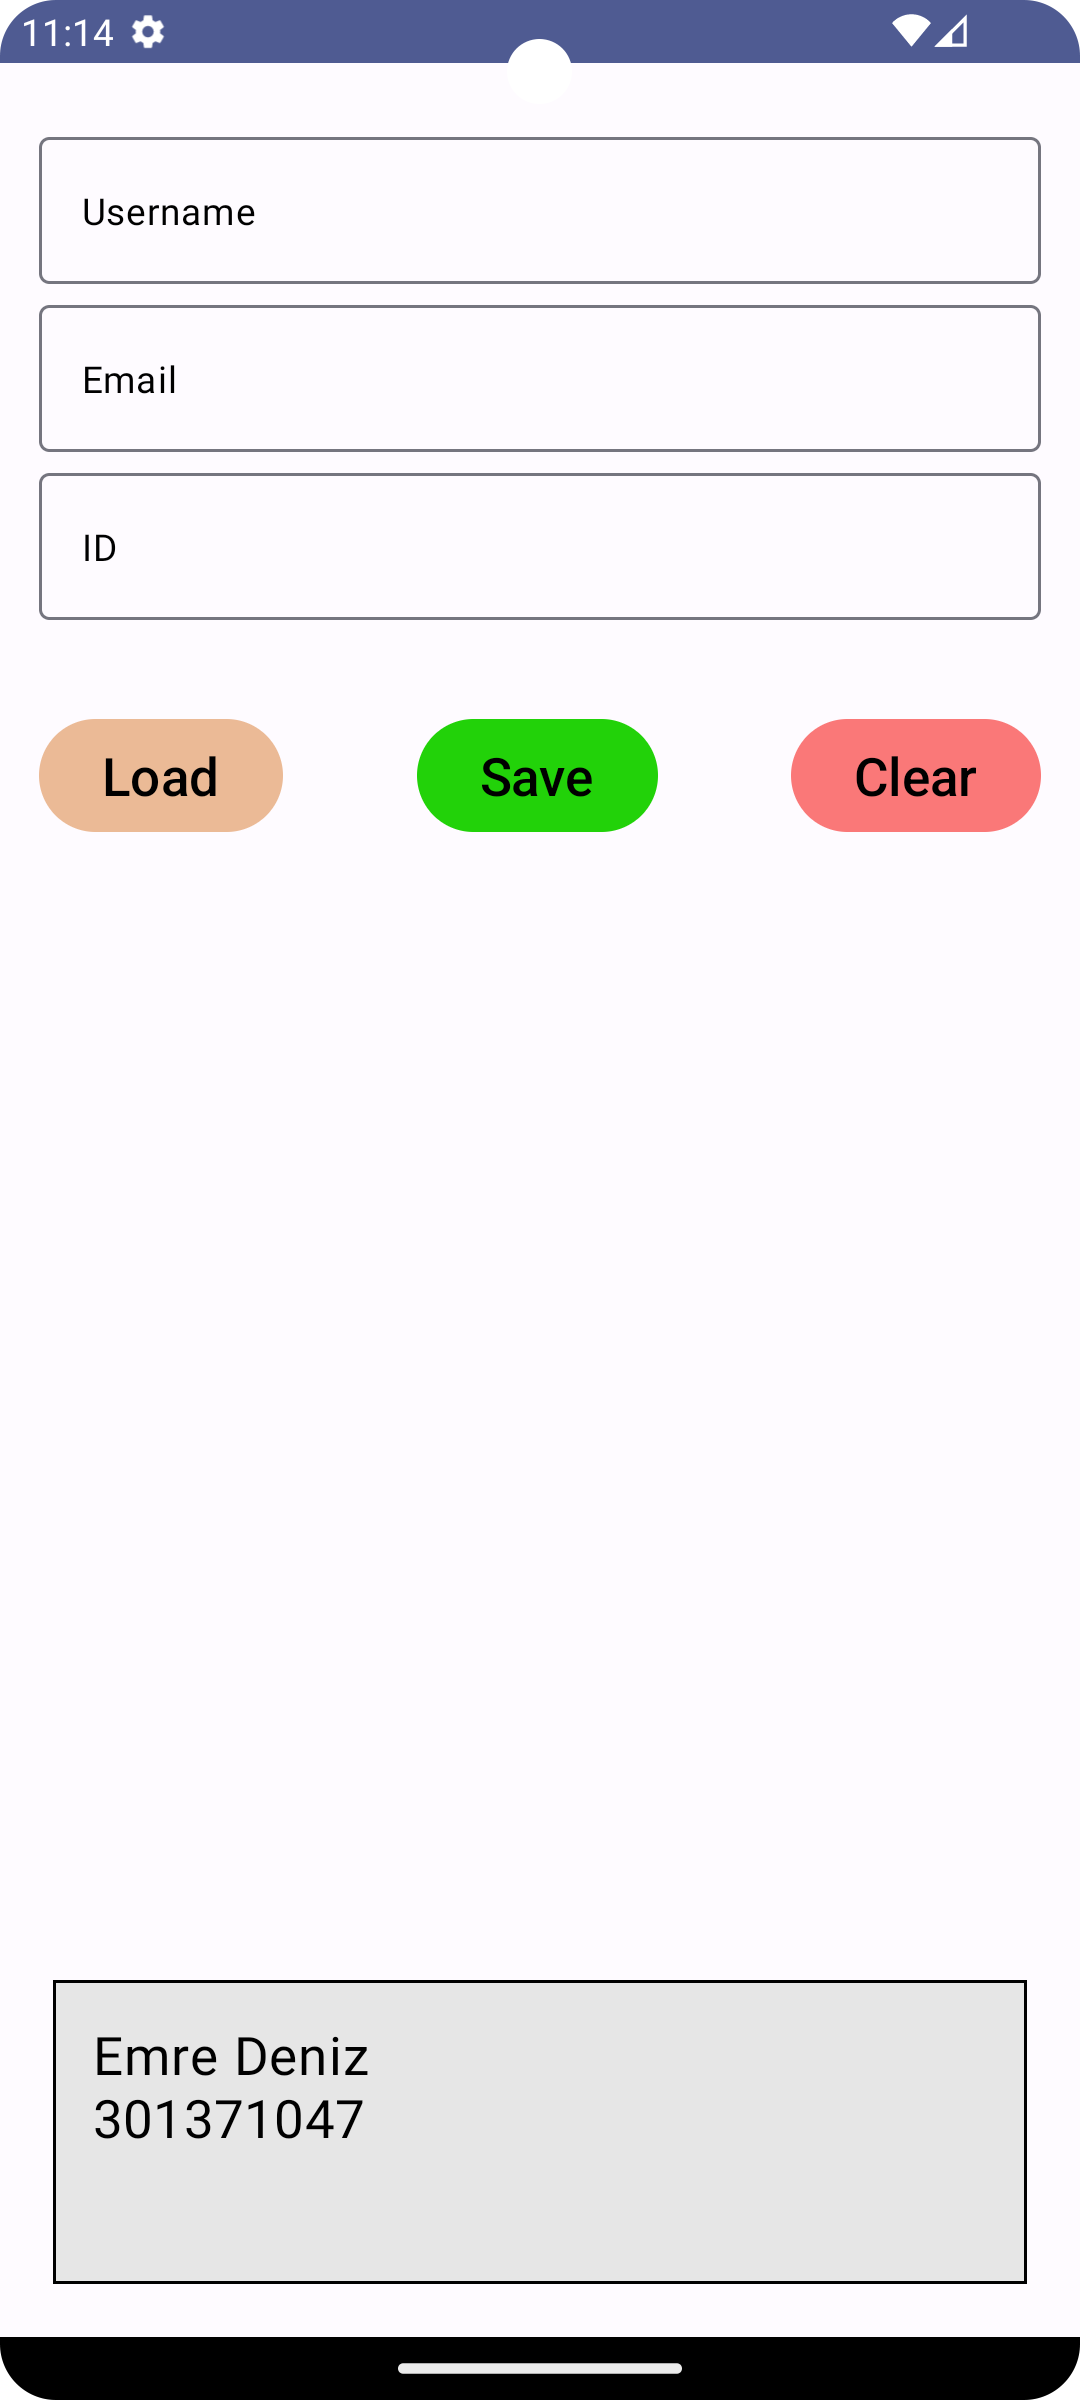
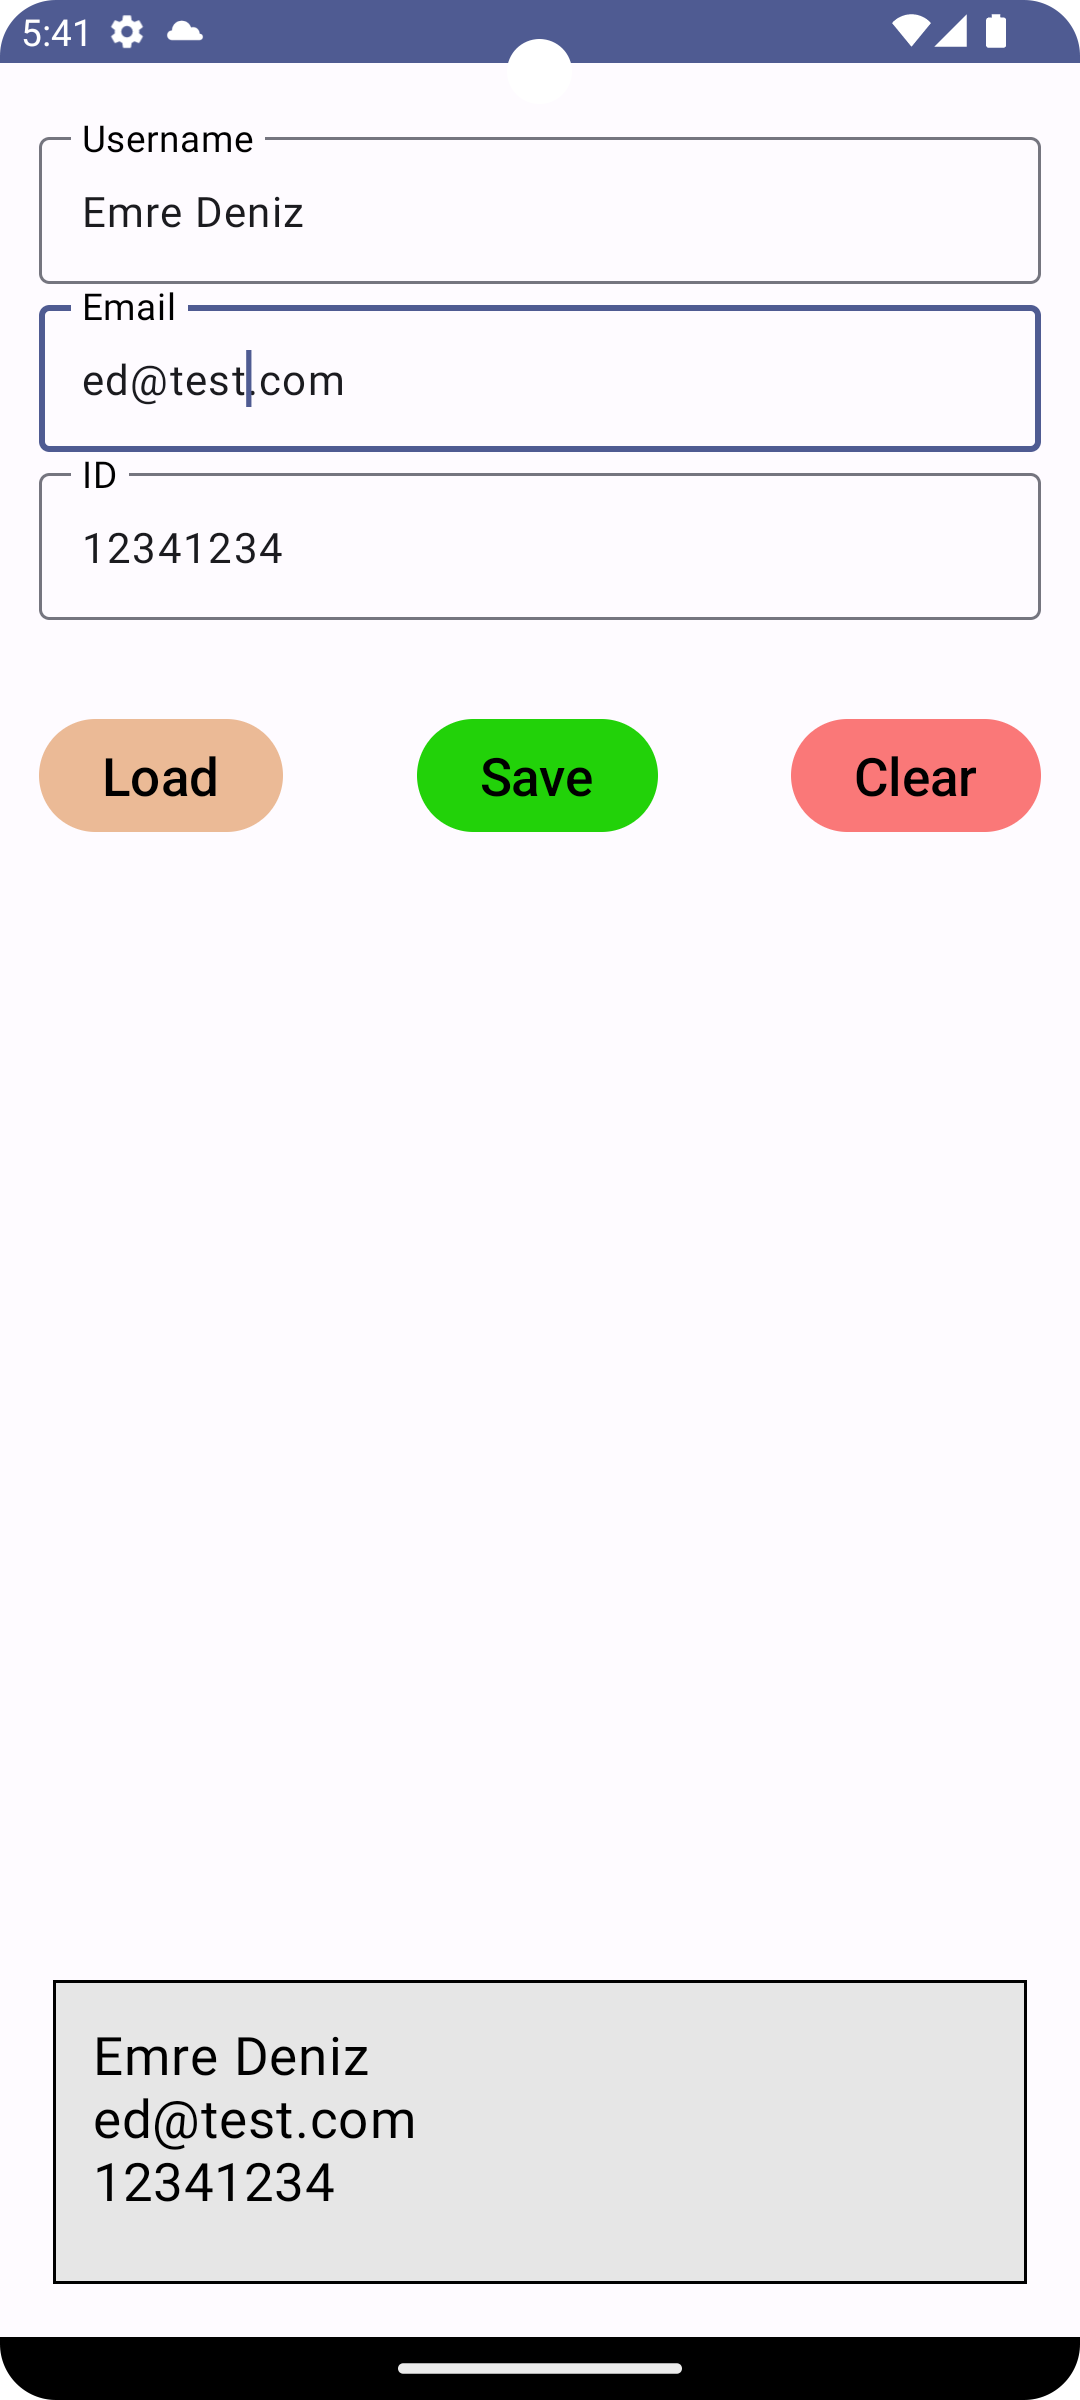
Small fix and screenshot updated

diff --git a/app/src/main/java/com/example/mapd721_a1_emredeniz/MainActivity.kt b/app/src/main/java/com/example/mapd721_a1_emredeniz/MainActivity.kt
@@ -159,7 +159,7 @@ fun MainScreen() {
                 .background(Color(230, 230, 230))
         ) {
             Text(
-                text = "Emre Deniz" + "\n" + "301371047",
+                text = (savedName.value ?: "") + "\n" + (savedEmail.value ?: "") + "\n" + (savedId.value ?: ""),
                 color = Color.Black,
                 fontSize = 20.sp,
                 modifier = Modifier.padding(15.dp)
